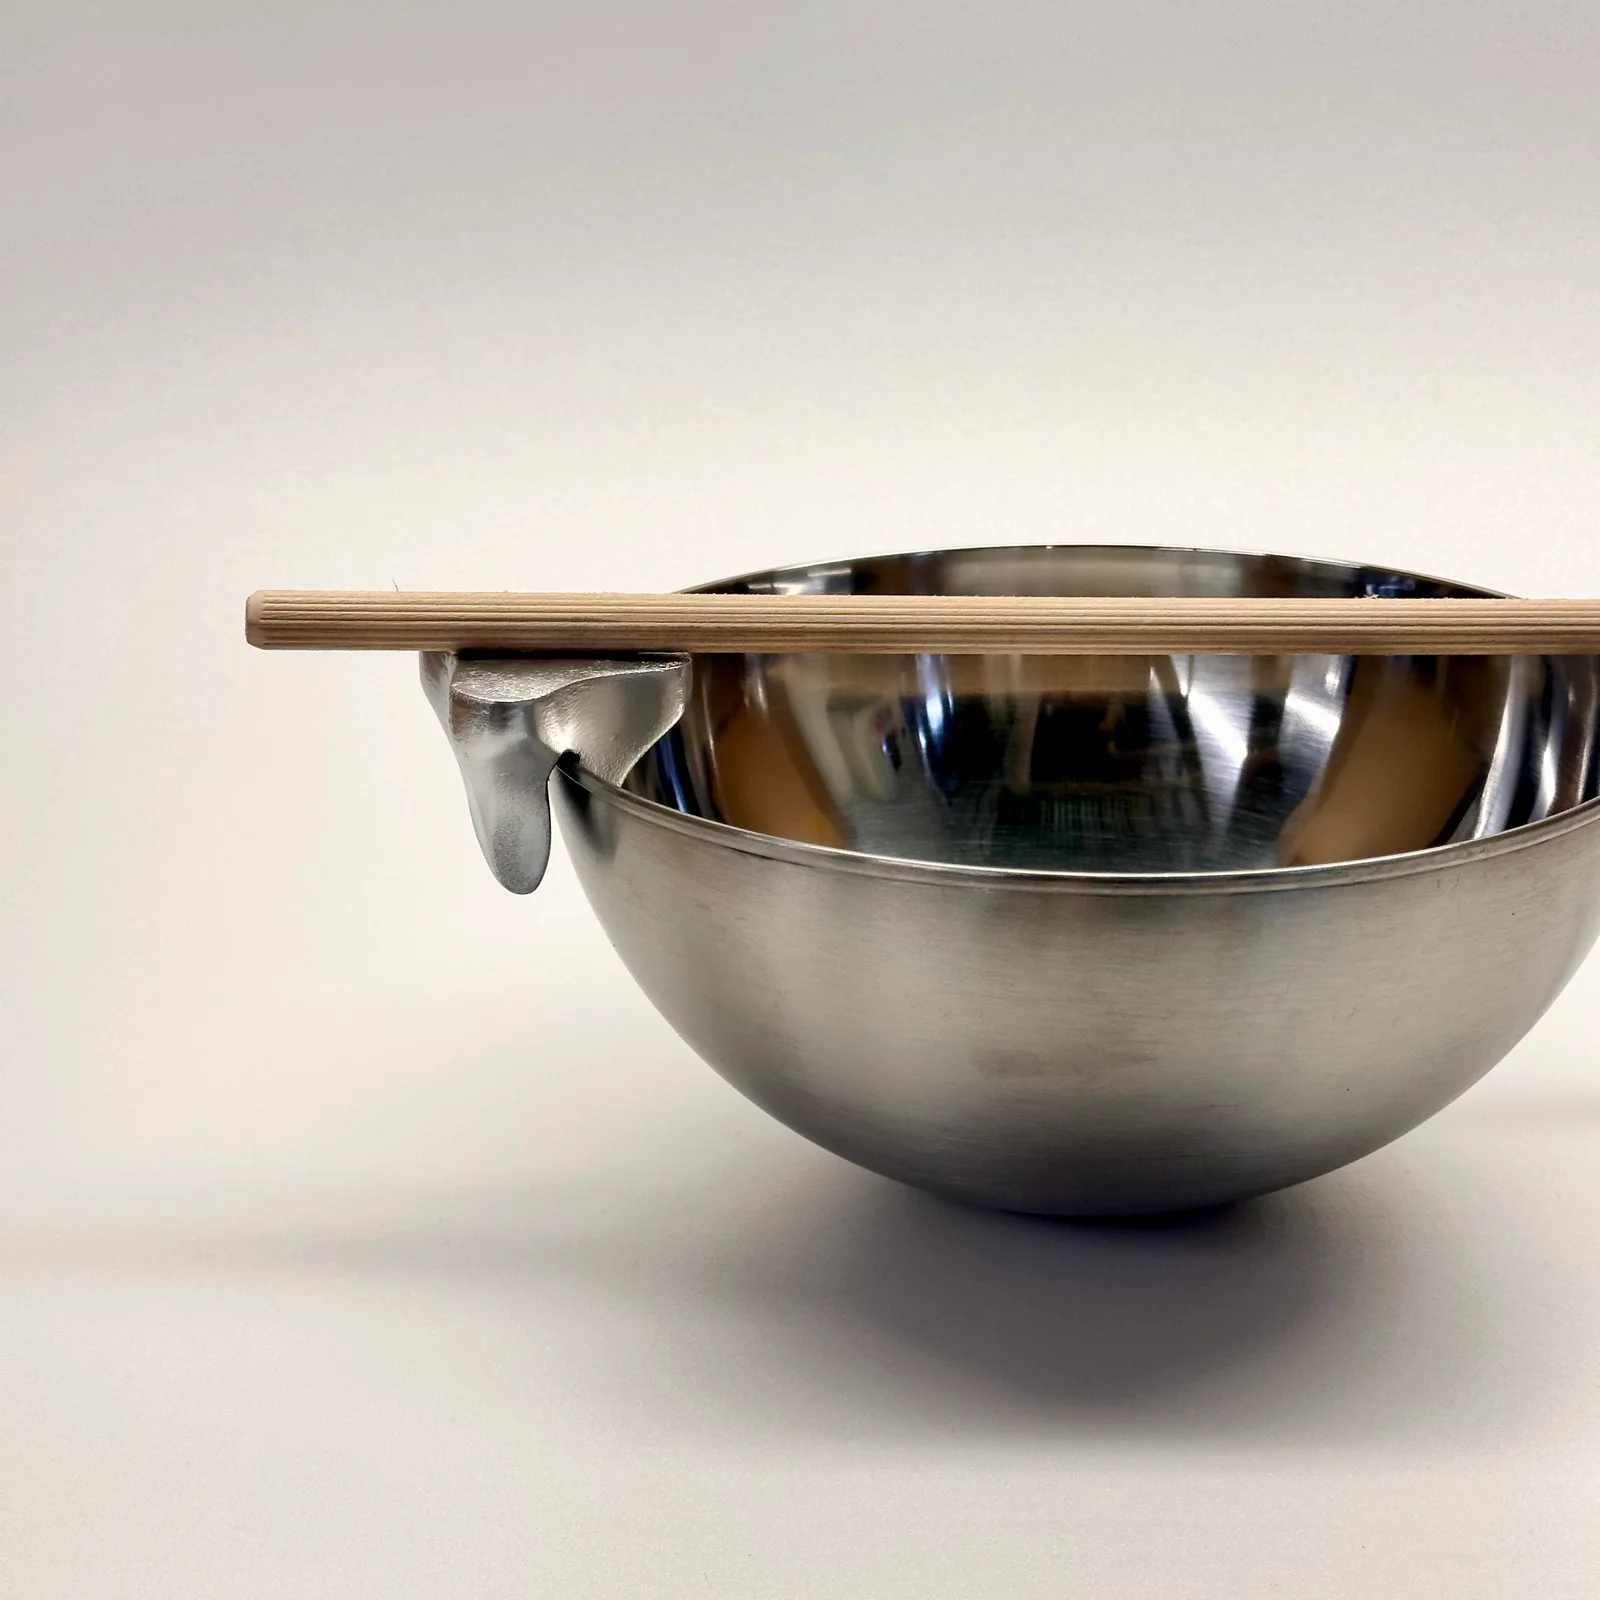
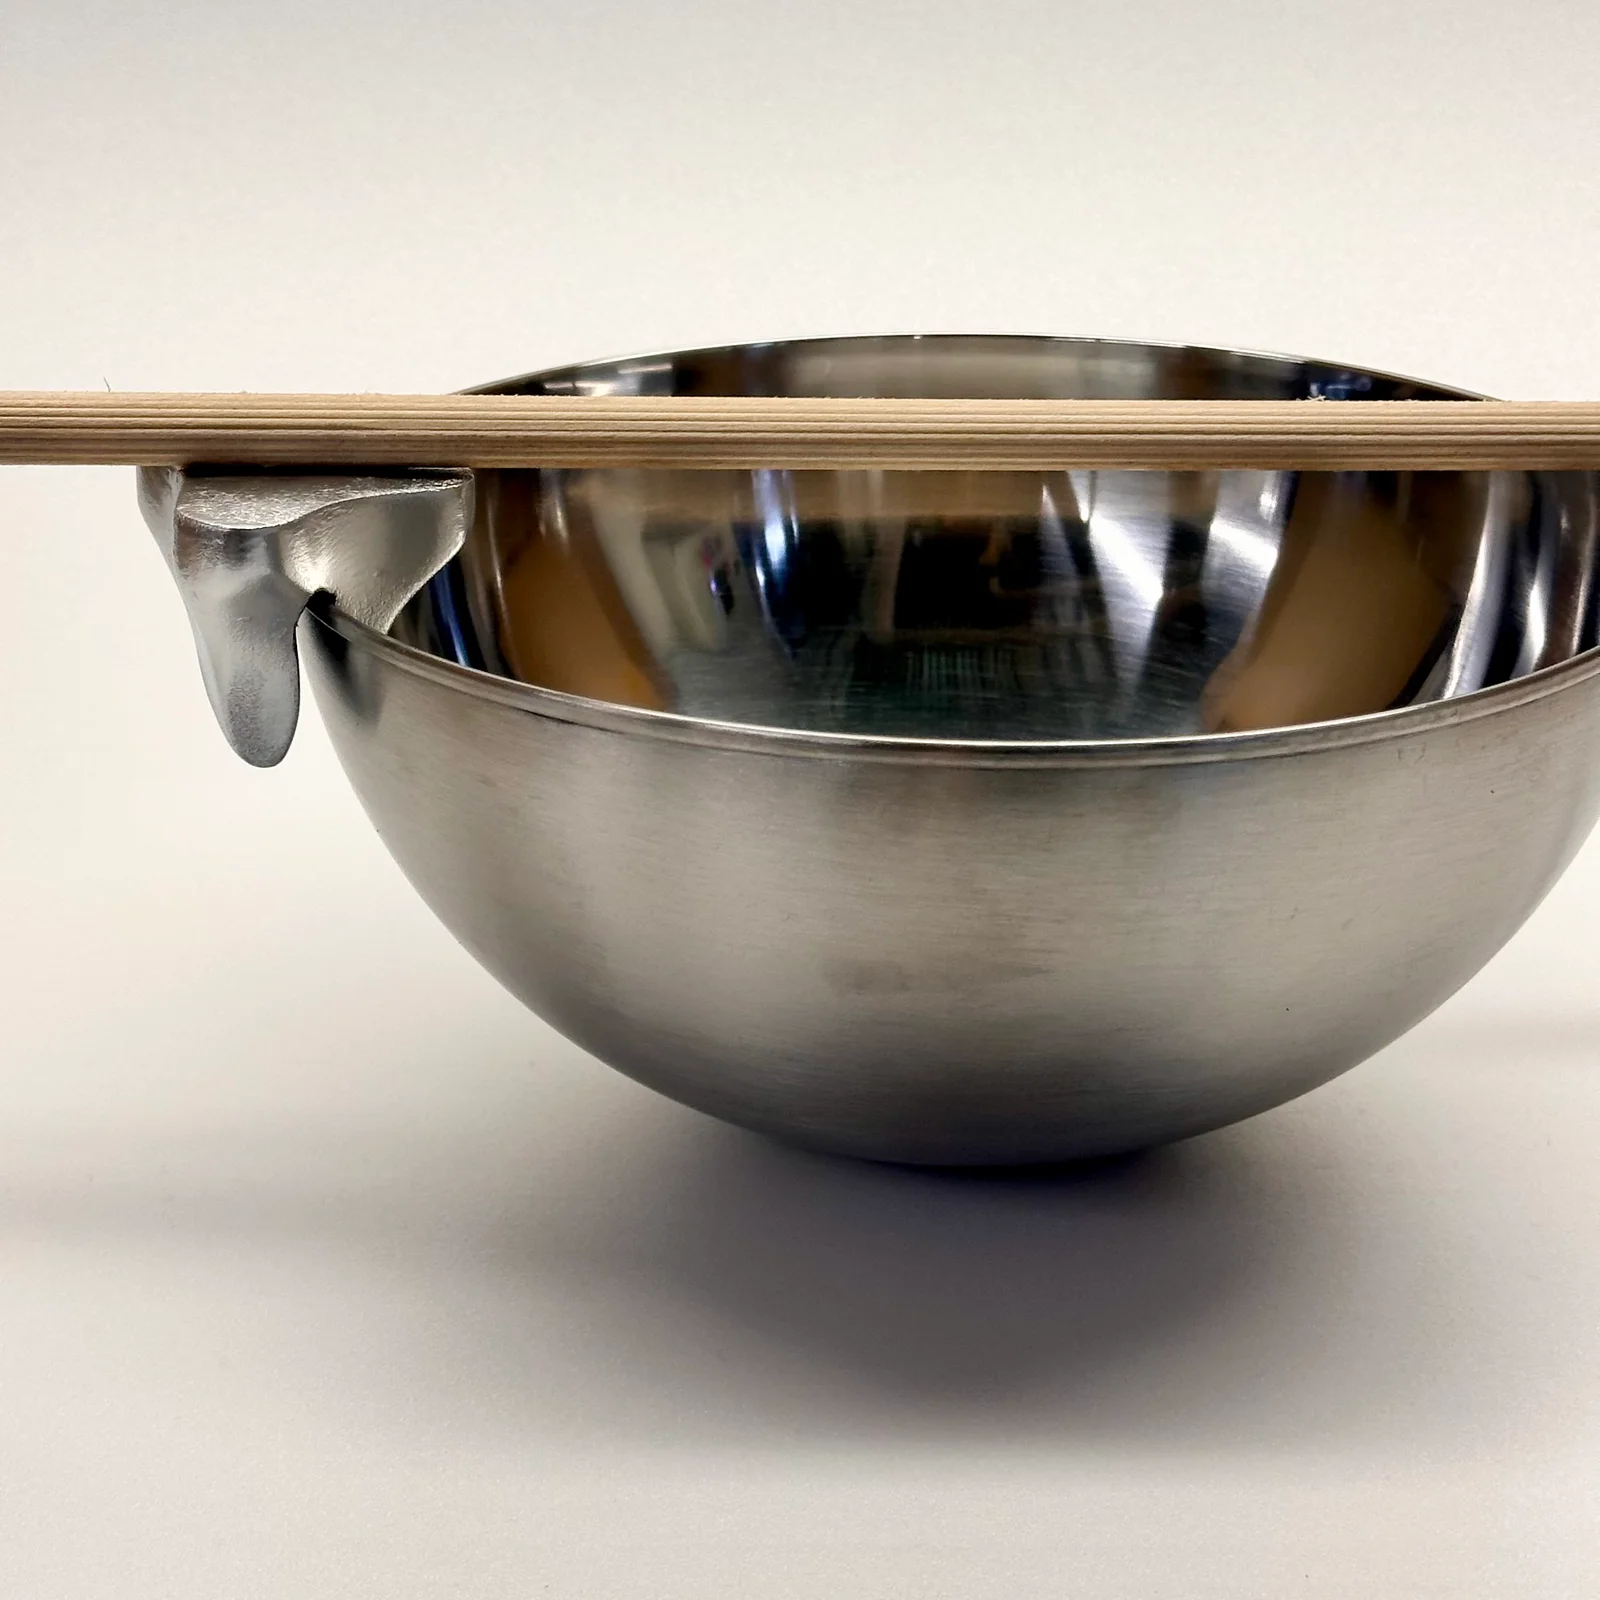
The masthead photograph comes in 1.24x and the bowl sits centred
Jack: "The hero photo at the top, can we zoom in on it just a bit and center
the product in the image just a bit more?"

Re-cropped from the original HEIC rather than from the 1600px export, which
is already one downscale deep: a 2440px window at 584,520 of the 3024x3024
frame, back out at 1600x1600.

THE RIGHT EDGE IS THE BOUND ON THE WHOLE PROBLEM, and it is worth writing
down because it is not obvious from the picture. The bowl already ran off
the right edge when the shot was taken, so the crop cannot travel any
further right to centre the subject - 584 + 2440 = 3024 exactly, flush.
That makes perfect centring and air to the left of the wooden rod mutually
exclusive. The rod runs edge to edge instead, which is the better reading of
a horizontal line anyway: one end floating in the middle of the air was the
weaker composition, and cutting it just barely would have read as an
accident rather than a choice.

Four windows were rendered and compared before picking this one: 1.17x kept
the rod end but left the bowl low and left of centre with a lot of empty
floor; 1.21x put the clip too near the left edge; 1.28x centred well but
took more off the bowl's right than it needed to.

Same path, deliberately. vercel.json gives assets a week of
stale-while-revalidate, so a returning visitor may see the previous framing
once - for a re-crop of the same photograph that is a shrug, and it heals
itself. The rule that earned a new filename last commit was a DIFFERENT
[…]

diff --git a/script.js b/script.js
@@ -225,6 +225,17 @@ const projectData = {
       eyebrow: 'proj.pot-clip.cs.eyebrow',
       lede: 'proj.pot-clip.cs.lede',
       tocLabel: 'proj.pot-clip.cs.toc',
+      /* CROPPED 1.24x TIGHTER AND CENTRED, from the original HEIC rather
+         than from the 1600px export. Jack: "can we zoom in on it just a bit
+         and center the product in the image just a bit more?"
+           The window is FLUSH to the source's right edge, and that is the
+         bound on the whole problem: the bowl already ran off that edge when
+         the photograph was taken, so the crop cannot travel any further
+         right to centre it. Perfectly centring the subject AND keeping air
+         to the left of the rod is not available - 584 + 2440 = 3024 exactly.
+         The rod runs edge to edge instead, which is the better reading of a
+         horizontal line anyway: one end floating in the middle of the air
+         was the weaker composition. */
       hero: { src: '/assets/projects/pot-clip/cs-hero.jpg', w: 1600, h: 1600,
         full: '/assets/projects/pot-clip/cs-hero.jpg',
         altKey: 'proj.pot-clip.cs.alt.hero' },

diff --git a/CLAUDE.md b/CLAUDE.md
@@ -1813,8 +1813,15 @@ third of it is a code snippet, a File Manager and a Download Scene button —
 tooling rather than work, and a thing this codebase pointedly does not use.
 Centred on the render's own ink box (446–1661 × 570–1318 in a 2948×1578
 source), 1800×1200 at source scale, margins 293/292 and 226/226.
-**`cs-store.jpg` has identifiable bystanders** — the Milan shopfront — so it
-falls under the safety constraint below.
+**The masthead photograph is cropped 1.24× tighter than the frame**, from
+the original rather than the export, and the window is flush to the source's
+right edge: the bowl ran off that edge when the shot was taken, so the crop
+cannot travel further right to centre the subject. Perfect centring and air
+to the left of the wooden rod are not both available — 584 + 2440 = 3024
+exactly — so the rod runs edge to edge, which reads better than one end
+floating in the middle of the air.
+**`cs-storefront.jpg` has identifiable bystanders** — the Milan shopfront —
+so it falls under the safety constraint below.
 
 **The old photo wall is in `docs/pot-clip-masonry.md`**, verbatim, with the
 48 alt-text lines that came out of `i18n.js` and the list of 11 photographs
